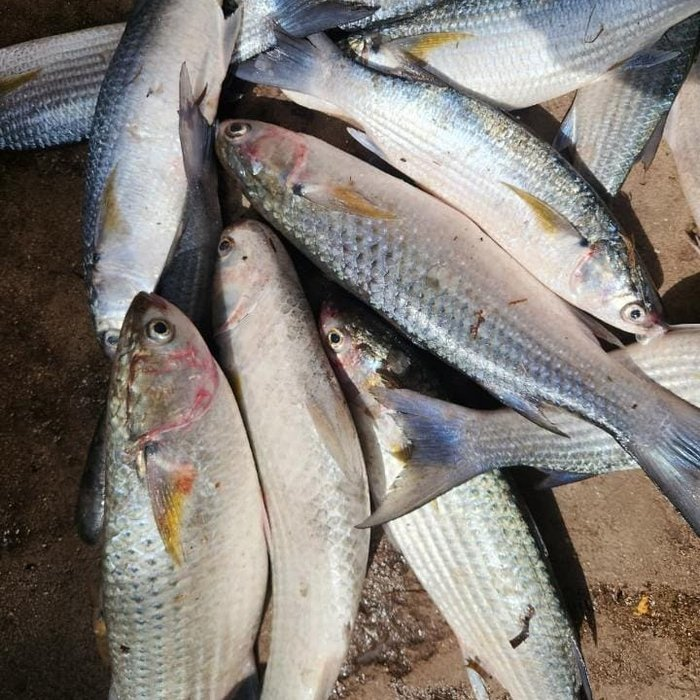
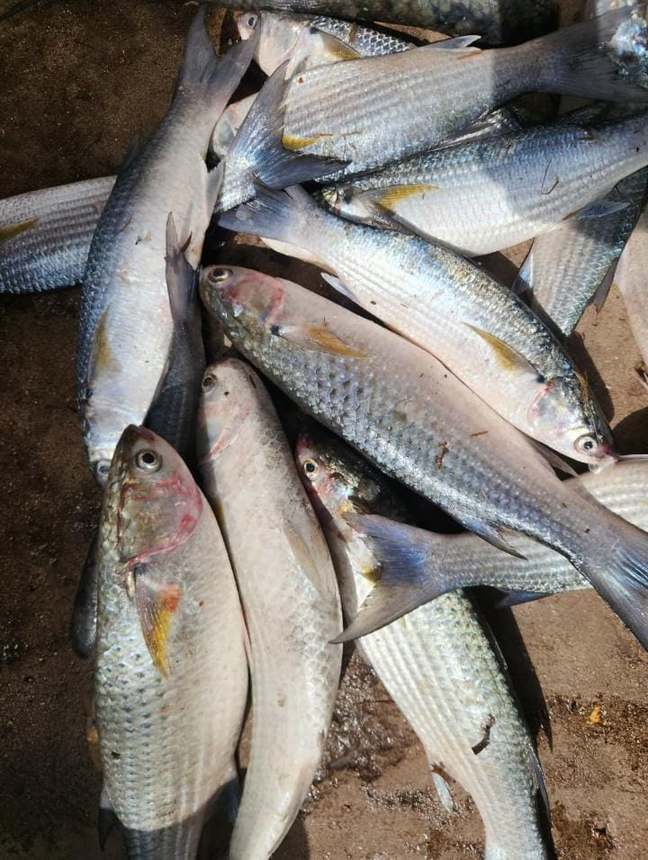
Add files via upload

diff --git a/catalogue.html b/catalogue.html
@@ -505,6 +505,14 @@ body.cart-sheet .mfwa{opacity:0;pointer-events:none}
       <button class="add">Add to cart</button>
       <div class="qty"><button class="mn">−</button><span class="n">0 kg</span><button class="pl">+</button></div></div>
     </div>
+    <div class="card" data-name="Dried Sardines (Simusimu Wakavu)" data-price="700" data-unit="kg">
+      <div class="im"><img src="images/simusimu-wakavu.jpg" alt="Dried sardines" loading="lazy" onerror="this.parentNode.outerHTML='&lt;div class=\'ph\'&gt;SW&lt;/div&gt;'"></div>
+      <div class="bd"><h3>Dried Sardines</h3><span class="en">Simusimu Wakavu</span>
+      <p class="ds">Sun-dried whole sardines — the same small oily fish, concentrated. Deep savoury flavour for stews, ugali and coconut sauces, and they keep for months without a fridge.</p>
+      <span class="pr">KES 700 / kg</span>
+      <button class="add">Add to cart</button>
+      <div class="qty"><button class="mn">−</button><span class="n">0 kg</span><button class="pl">+</button></div></div>
+    </div>
     <div class="card" data-name="Dried Seamoss - Uncleaned (Mwani Mkavu)" data-price="600" data-unit="kg">
       <div class="im"><img src="images/mwani-mkavu.jpg" alt="Dried sea moss uncleaned" loading="lazy" onerror="this.parentNode.outerHTML=\'&lt;div class=\\'ph\\'&gt;MW&lt;/div&gt;\'" width="800" height="1422"></div>
       <div class="bd"><h3><a href="fish/mwani-mkavu.html">Dried Sea Moss — Uncleaned</a></h3><span class="en">Mwani Mkavu</span>
@@ -563,6 +571,19 @@ body.cart-sheet .mfwa{opacity:0;pointer-events:none}
       <a class="more" href="fish/dried-prawns-1kg.html">Full details, cooking &amp; storage →</a>
       <button class="add">Add to cart</button>
       <div class="qty"><button class="mn">−</button><span class="n">0 kg</span><button class="pl">+</button></div></div>
+    </div>
+  </div>
+
+  <h3 class="cat" id="feeds">Animal Feeds <small>&middot; Chakula cha Kuku na Mifugo &middot; per sack</small></h3>
+  <p class="catdesc">Fish protein for poultry and livestock, made from dried anchovies. Sold by the sack, not the kilo &mdash; and it travels dry, so there is no cooler box and no ice to pay for.</p>
+  <div class="grid">
+    <div class="card" data-name="Chicken &amp; Livestock Feed — dried anchovy, 7 kg sack" data-price="1000" data-unit="pc" data-weight="0">
+      <div class="im"><img src="images/feed-kuku.jpg" alt="Whole sun-dried anchovies for chicken and livestock feed" loading="lazy" width="858" height="860" onerror="this.parentNode.outerHTML='&lt;div class=\'ph\'&gt;CK&lt;/div&gt;'"></div>
+      <div class="bd"><h3>Chicken &amp; Livestock Feed</h3><span class="en">Chakula cha Kuku na Mifugo &middot; 7 kg sack</span>
+      <p class="ds">Whole sun-dried anchovies, heads and all — fish protein for layers, broilers and livestock. A 7 kg sack at KES 1,000 works out at roughly 143 a kilo, a fraction of the table-grade price.</p>
+      <span class="pr">KES 1,000 / 7 kg sack</span>
+      <button class="add">Add to cart</button>
+      <div class="qty"><button class="mn">−</button><span class="n">0</span><button class="pl">+</button></div></div>
     </div>
   </div>
 
